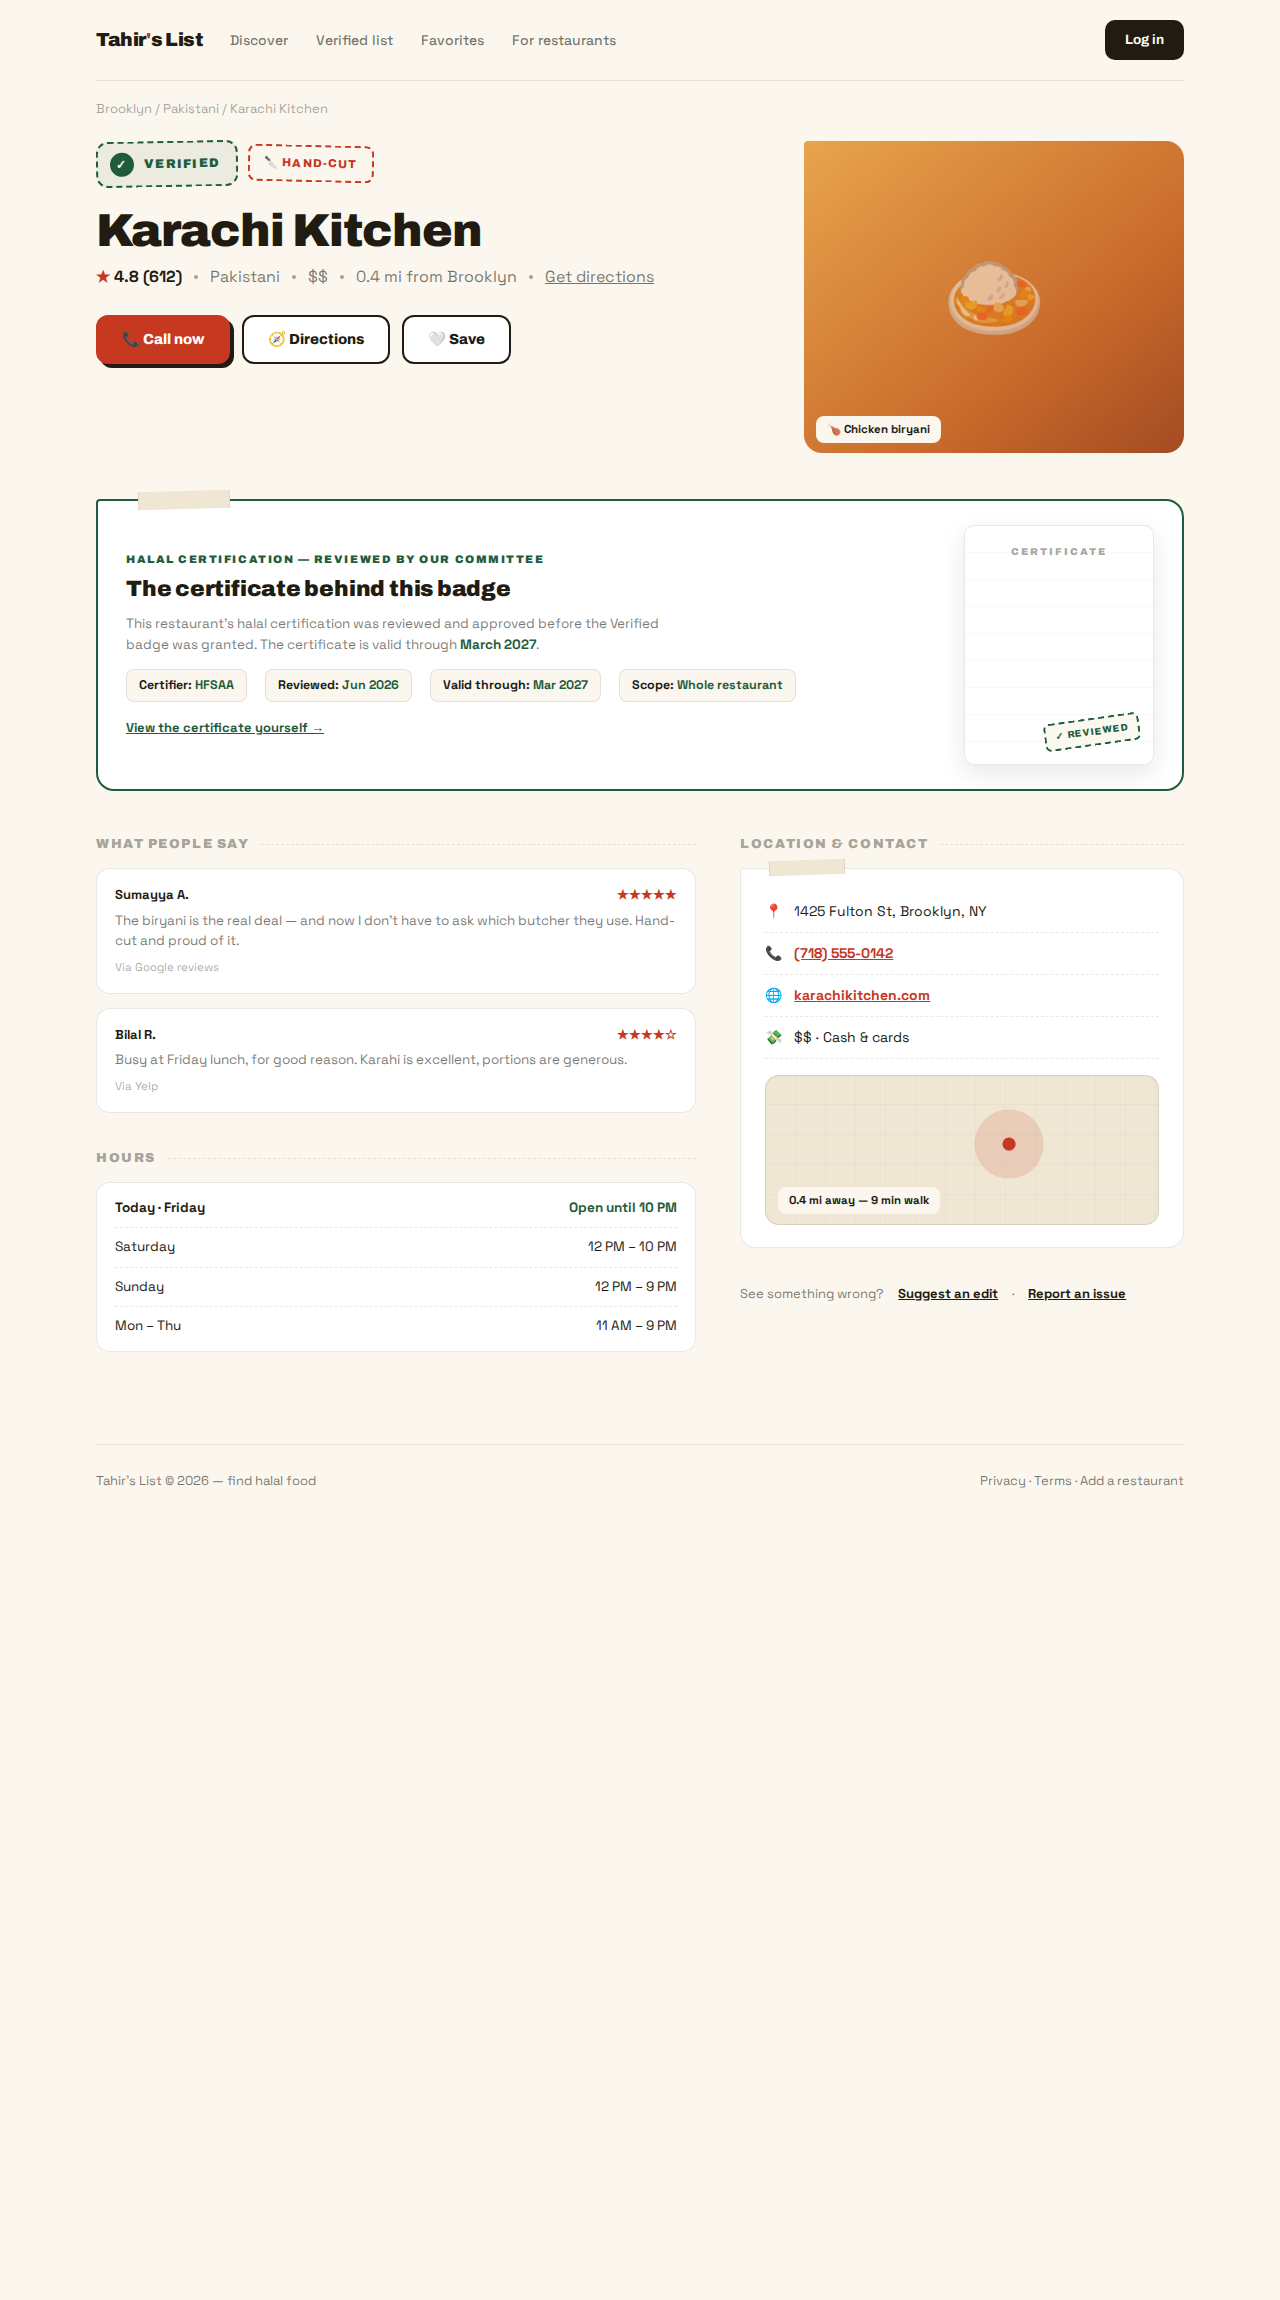
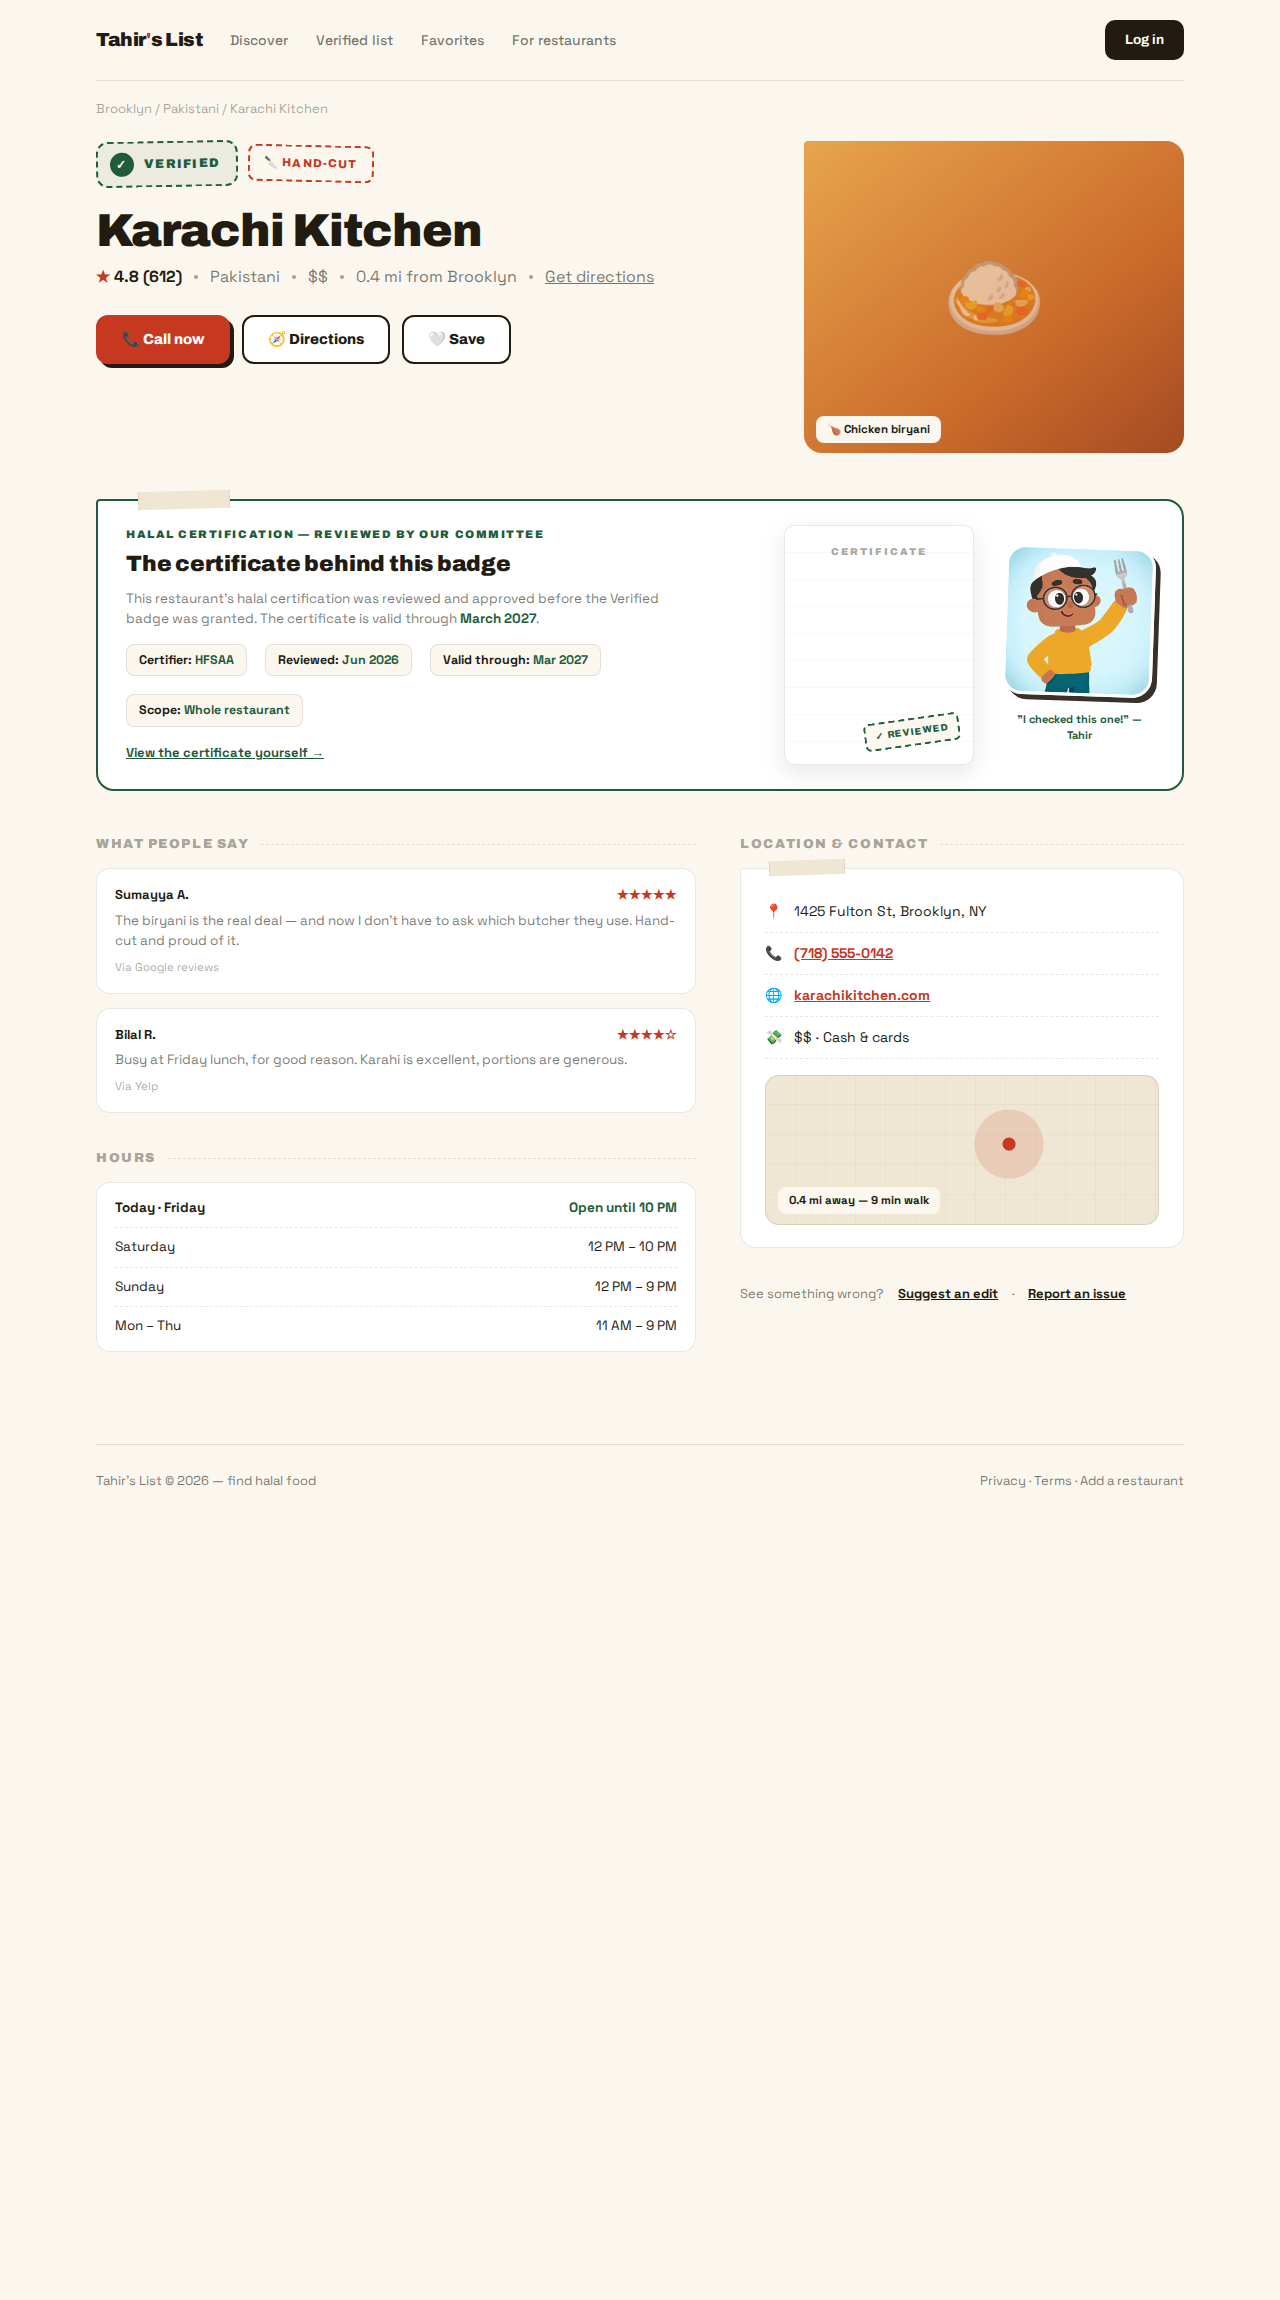
[sc-159] Integrate Tahir mascot into hero and trust panel

diff --git a/sketches/006-stamps-search/index.html b/sketches/006-stamps-search/index.html
@@ -28,6 +28,10 @@
 
   /* Hero — stamp-poster */
   .hero { text-align: center; padding: 56px 0 0; position: relative; }
+  .hero .tahir { position: absolute; width: 150px; right: 1%; top: 20px; transform: rotate(3deg); border-radius: 28px; border: 3px solid #fff; box-shadow: 6px 6px 0 rgba(33,27,18,.9); }
+  .hero .speech { position: absolute; width: auto; right: calc(1% + 156px); top: 44px; background: #fff; border: 2px solid var(--ink); border-radius: 14px 14px 4px 14px; padding: 9px 13px; font-size: 12px; font-weight: 700; text-align: left; box-shadow: 4px 4px 0 var(--ink); z-index: 2; white-space: nowrap; }
+  .hero .speech::after { content: ""; position: absolute; right: -12px; top: 22px; width: 14px; height: 14px; background: #fff; border-right: 2px solid var(--ink); border-top: 2px solid var(--ink); transform: rotate(45deg); }
+  .hero .speech em { color: var(--green); font-style: normal; }
   .kicker { display: inline-flex; align-items: center; gap: 8px; font-family: "Archivo"; font-weight: 800; font-size: 11px; letter-spacing: .14em; text-transform: uppercase; color: var(--green); border: 2px dashed var(--green); border-radius: 8px; padding: 6px 14px; transform: rotate(-1.5deg); }
   .hero h1 { font-family: "Archivo"; font-weight: 900; font-size: 54px; letter-spacing: -.025em; line-height: 1.04; margin-top: 22px; }
   .hero h1 .hl { color: var(--red); position: relative; white-space: nowrap; }
@@ -116,6 +120,8 @@
     </nav>
 
     <section class="hero">
+      <img class="tahir" src="tahir.jpg" alt="Tahir — your halal food guide">
+      <div class="speech" aria-hidden="true">9 new spots verified ✓</div>
       <span class="kicker head">✓ Certificates checked by our committee</span>
       <h1 class="head">Find halal food.<br>Know it's <span class="hl">actually halal.</span></h1>
       <p>Hand-cut or machine-cut, verified or not — every listing tells you the truth about your food. No guesswork, no calling ahead.</p>

diff --git a/sketches/007-detail-stamps/index.html b/sketches/007-detail-stamps/index.html
@@ -55,7 +55,9 @@
   .pcap { position: absolute; left: 12px; bottom: 10px; background: var(--paper); border-radius: 8px; padding: 5px 11px; font-size: 11.5px; font-weight: 700; }
 
   /* Certificate panel — the trust artifact */
-  .cert { margin-top: 34px; background: #fff; border: 2px solid var(--green); border-radius: 4px 18px 18px 18px; padding: 24px 28px; display: grid; grid-template-columns: 1fr auto; gap: 30px; align-items: center; position: relative; }
+  .cert { margin-top: 34px; background: #fff; border: 2px solid var(--green); border-radius: 4px 18px 18px 18px; padding: 24px 28px; display: grid; grid-template-columns: 1fr auto 150px; gap: 30px; align-items: center; position: relative; }
+  .cert .tahir-thumb { width: 150px; border-radius: 20px; border: 3px solid #fff; box-shadow: 5px 5px 0 rgba(33,27,18,.9); transform: rotate(2deg); }
+  .cert .tahir-cap { text-align: center; font-size: 11px; font-weight: 700; color: var(--green); margin-top: 8px; }
   .cert::before { content: ""; position: absolute; top: -10px; left: 40px; width: 90px; height: 18px; background: var(--kraft); border-left: 1.5px dashed var(--line); border-right: 1.5px dashed var(--line); transform: rotate(-1.5deg); }
   .cert .kick { font-family: "Archivo"; font-weight: 900; font-size: 11px; letter-spacing: .14em; text-transform: uppercase; color: var(--green); }
   .cert h2 { font-family: "Archivo"; font-weight: 900; font-size: 22px; margin-top: 6px; letter-spacing: -.01em; }
@@ -155,6 +157,10 @@
         <button>View the certificate yourself →</button>
       </div>
       <div class="doc" aria-label="Reviewed certificate preview"></div>
+      <div>
+        <img class="tahir-thumb" src="tahir.jpg" alt="Tahir">
+        <div class="tahir-cap">"I checked this one!" — Tahir</div>
+      </div>
     </section>
 
     <div class="cols">

diff --git a/sketches/008-stamps-mobile/index.html b/sketches/008-stamps-mobile/index.html
@@ -27,6 +27,10 @@
   .searchslab { margin-top: 12px; background: #fff; border: 2px solid var(--ink); border-radius: 14px; box-shadow: 4px 4px 0 var(--ink); display: flex; align-items: center; padding: 5px 5px 5px 14px; }
   .searchslab input { flex: 1; min-width: 0; border: none; outline: none; font: inherit; font-size: 15px; font-weight: 500; background: none; }
   .searchslab .go { border: none; background: var(--red); color: #fff; font-family: "Archivo"; font-weight: 800; font-size: 13.5px; padding: 12px 18px; border-radius: 10px; }
+  .tahirbar { display: flex; align-items: center; gap: 12px; margin: 14px 18px 0; }
+  .tahirbar img { width: 64px; height: 64px; border-radius: 18px; border: 2.5px solid #fff; box-shadow: 3px 3px 0 rgba(33,27,18,.9); flex: 0 0 auto; }
+  .tahirbar .msg { background: #fff; border: 2px solid var(--ink); border-radius: 12px 12px 4px 12px; padding: 9px 13px; font-size: 12.5px; font-weight: 700; box-shadow: 3px 3px 0 var(--ink); }
+  .tahirbar .msg em { color: var(--green); font-style: normal; }
   .centerpill { display: inline-flex; gap: 6px; margin-top: 10px; font-size: 12px; font-weight: 700; color: var(--ink-soft); background: var(--kraft); border-radius: 999px; padding: 6px 13px; }
   .centerpill b { color: var(--ink); }
 
@@ -121,6 +125,11 @@
     </div>
     <div style="text-align:center"><span class="centerpill">Near <b>Brooklyn, NY</b> ✕</span></div>
   </header>
+
+  <div class="tahirbar">
+    <img src="tahir-head.jpg" alt="Tahir">
+    <div class="msg">9 new spots verified this week ✓</div>
+  </div>
 
   <section class="hero">
     <span class="kicker head">✓ Certificates checked</span>
